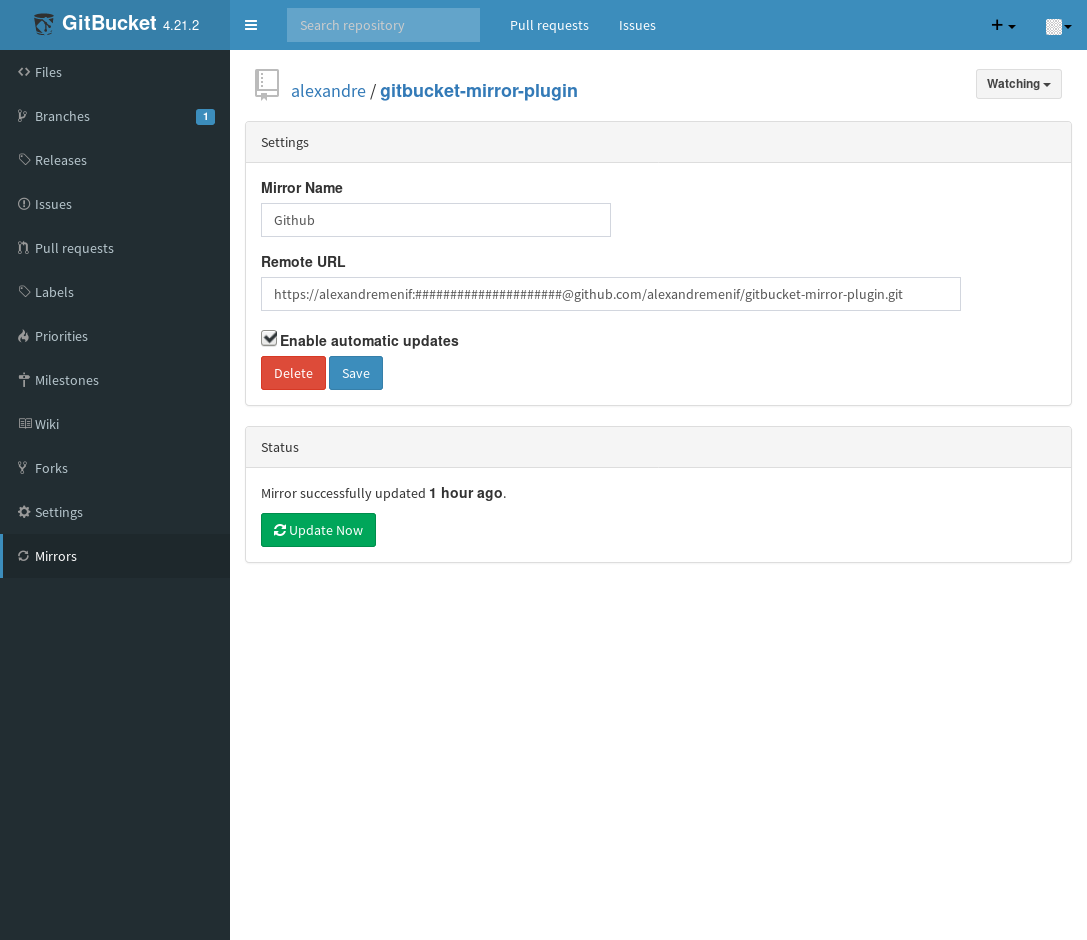
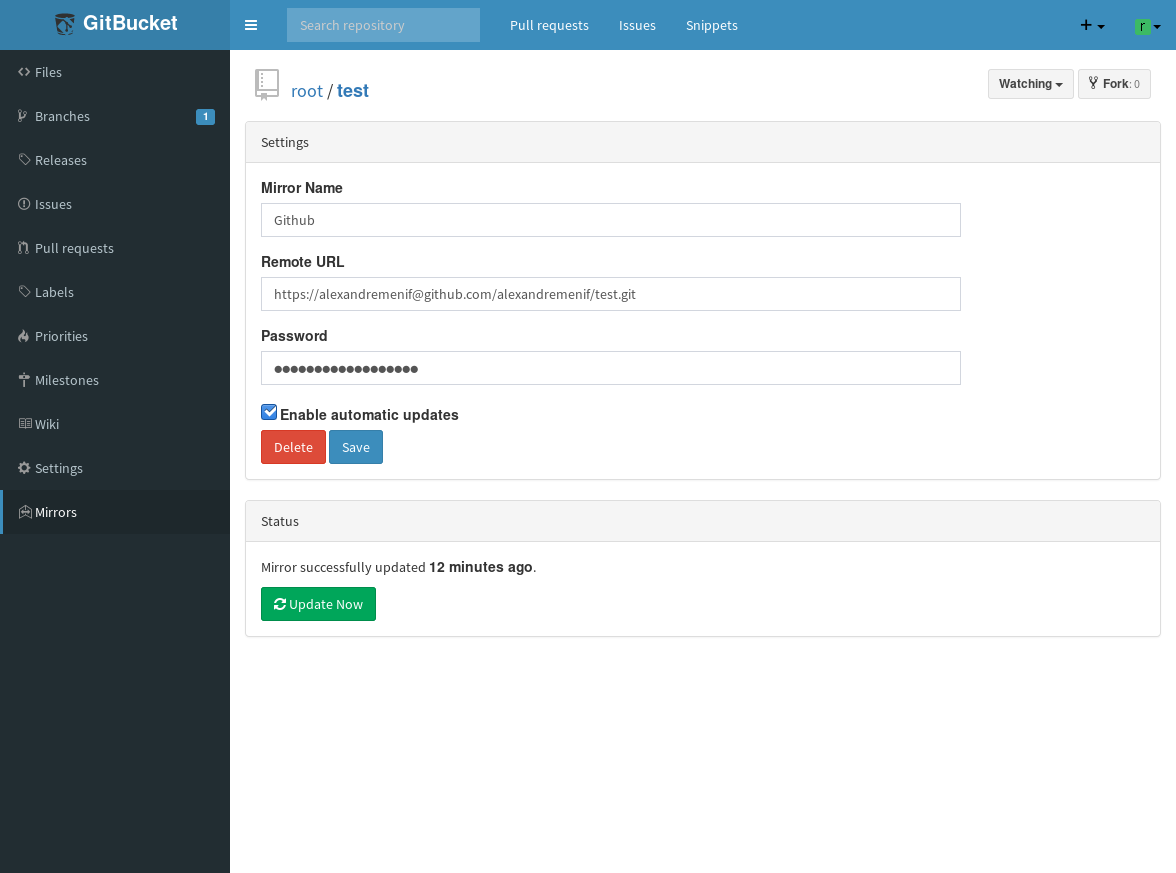
Add password input field

Changed region(s): [[0.0, 0.0, 1.0, 1.0], [0.0, 0.1237, 0.0911, 0.5567], [0.0, 0.5876, 0.0607, 0.6186]]

diff --git a/src/main/twirl/gitbucket/mirror/create.scala.html b/src/main/twirl/gitbucket/mirror/create.scala.html
@@ -24,16 +24,18 @@
 $(function(){
   $('#create-mirror-form').submit(function() {
 
-    var name = $('#name').val()
-    var remoteUrl = $('#remote-url').val()
-    var enabled = $('#enabled').is(':checked')
+    const name = $('#name').val()
+    const remoteUrl = $('#remote-url').val()
+    const remotePassword = $('#remote-password').val()
+    const enabled = $('#enabled').is(':checked')
 
-    var mirror = {
-      userName: '@repository.owner',
+    const mirror = {
+      username: '@repository.owner',
       repositoryName: '@repository.name',
-       name: name,
-       remoteUrl: remoteUrl,
-       enabled: enabled
+      name,
+      remoteUrl,
+      remotePassword: remotePassword ? remotePassword : undefined,
+      enabled
     };
 
     $.ajax({

diff --git a/src/main/twirl/gitbucket/mirror/mirror.scala.html b/src/main/twirl/gitbucket/mirror/mirror.scala.html
@@ -89,16 +89,18 @@ $(function(){
 
   $('#mirror-form').submit(function(){
 
-    var name = $('#name').val()
-    var remoteUrl = $('#remote-url').val()
-    var enabled = $('#enabled').is(':checked')
+    const name = $('#name').val()
+    const remoteUrl = $('#remote-url').val()
+    const remotePassword = $('#remote-password').val()
+    const enabled = $('#enabled').is(':checked')
 
-    var mirror = {
-      userName: '@repository.owner',
+    const mirror = {
+      username: '@repository.owner',
       repositoryName: '@repository.name',
-      name: name,
-      remoteUrl: remoteUrl,
-      enabled: enabled
+      name,
+      remoteUrl,
+      remotePassword: remotePassword ? remotePassword : undefined,
+      enabled
     };
 
     $.ajax({

diff --git a/src/main/twirl/gitbucket/mirror/mirror_inputs.scala.html b/src/main/twirl/gitbucket/mirror/mirror_inputs.scala.html
@@ -4,7 +4,7 @@
   <label for="name">Mirror Name</label>
   <input type="text"
          class="form-control"
-         style="max-width: 25em"
+         style="max-width: 50em"
          id="name"
          value="@mirror.map(_.name).getOrElse("")"
          maxlength="100"
@@ -22,6 +22,17 @@
          maxlength="2000"
          size="2000"
          required>
+</div>
+
+<div class="form-group">
+  <label for="remote-url">Password</label>
+  <input type="password"
+         class="form-control"
+         style="max-width: 50em"
+         id="remote-password"
+         value="@mirror.flatMap(_.remotePassword).orNull"
+         maxlength="2000"
+         size="2000">
 </div>
 
 <div class="form-check">

diff --git a/README.md b/README.md
@@ -50,10 +50,10 @@ repository. Let's assume that the new mirror is located at a URL alike
 
 Then, you can go to the *Mirrors* view of your repository on *Gitbucket* and
 click on the *New Mirror* button. Choose a name for the new mirror and enter
-its URL in the dedicated input field. If required, credentials should be
-included in the URL. For the *Github* example, you should for instance get a
-[personal access token](https://help.github.com/articles/creating-a-personal-access-token-for-the-command-line/)
-and include it in the URL in the following way: `https://username:token@github.com/username/repos.git`.
+its URL in the dedicated input field. If you need credentials, you should
+provide the username in the URL, as in 
+`https://username@github.com/username/repos.git` and the password in the 
+dedicated form input located below the URL.
 
 Submit the new mirror and every push received by your repository on
 *Gitbucket* will now be propagated to the mirror on *Github*.
@@ -61,8 +61,8 @@ Submit the new mirror and every push received by your repository on
 ### SSH support
 
 It is also possible to use the SSH protocol instead of HTTP. Again, you need
-to provide the credentials in the URL to perform authentication (it is
-possible, although it is not recommended for security reasons).
+to provide the credentials in the URL to perform authentication (the password
+can also be provided in the password input field).
 
 If you are rather using a public/private key system, you can use the
 environment variable `MIRROR_SSH_PRIVATE_KEYS` to specify a semicolon
